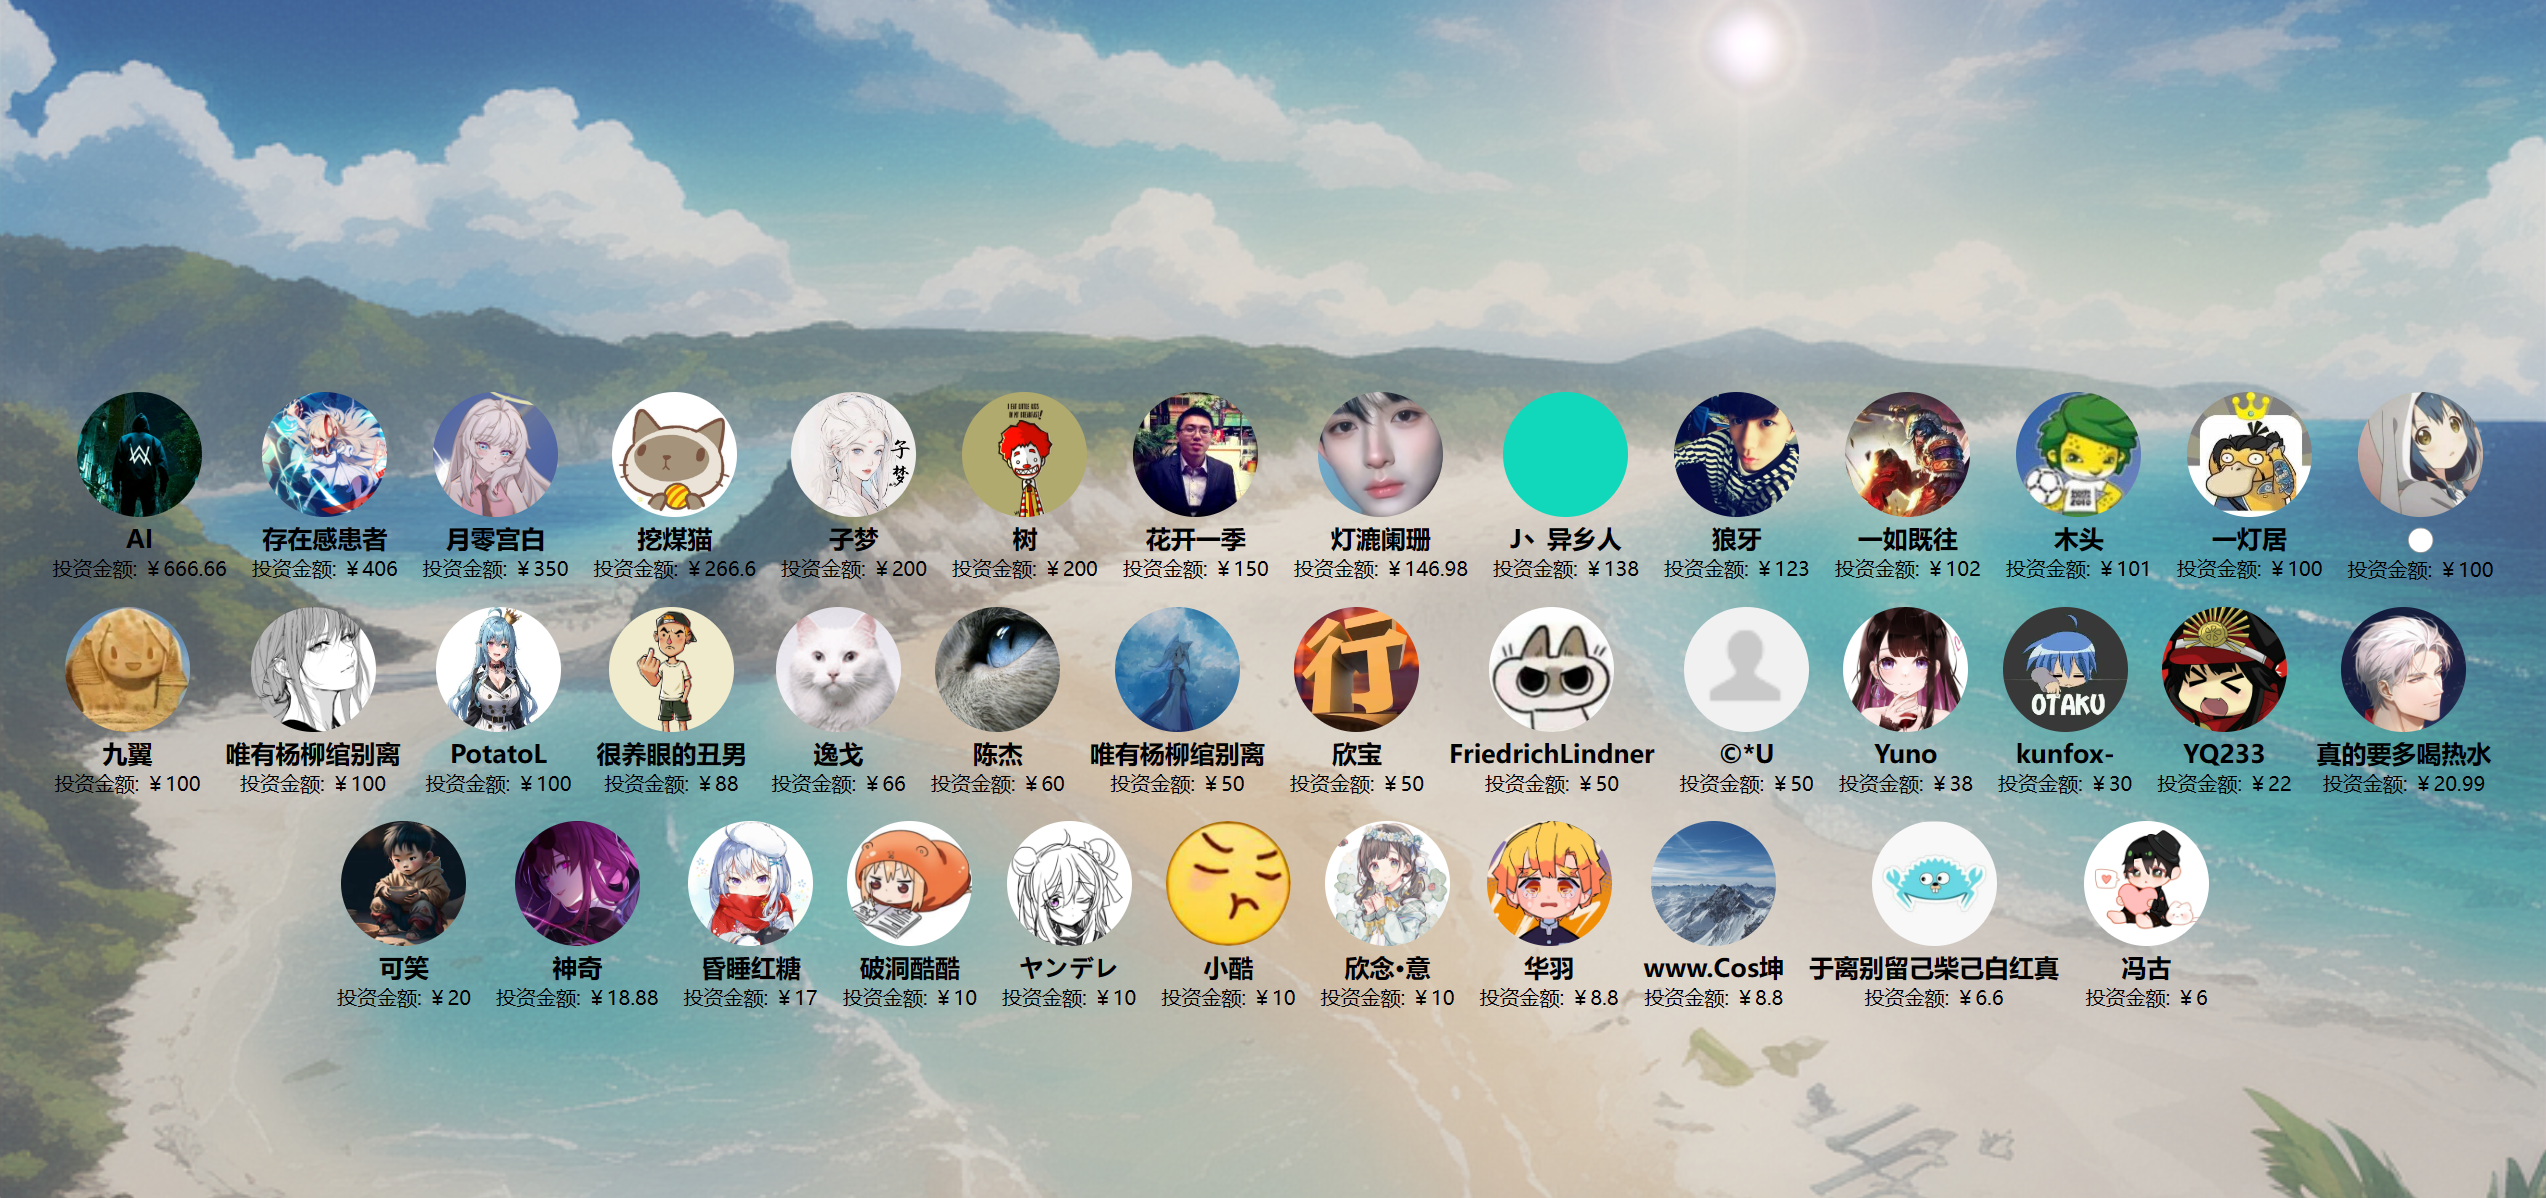
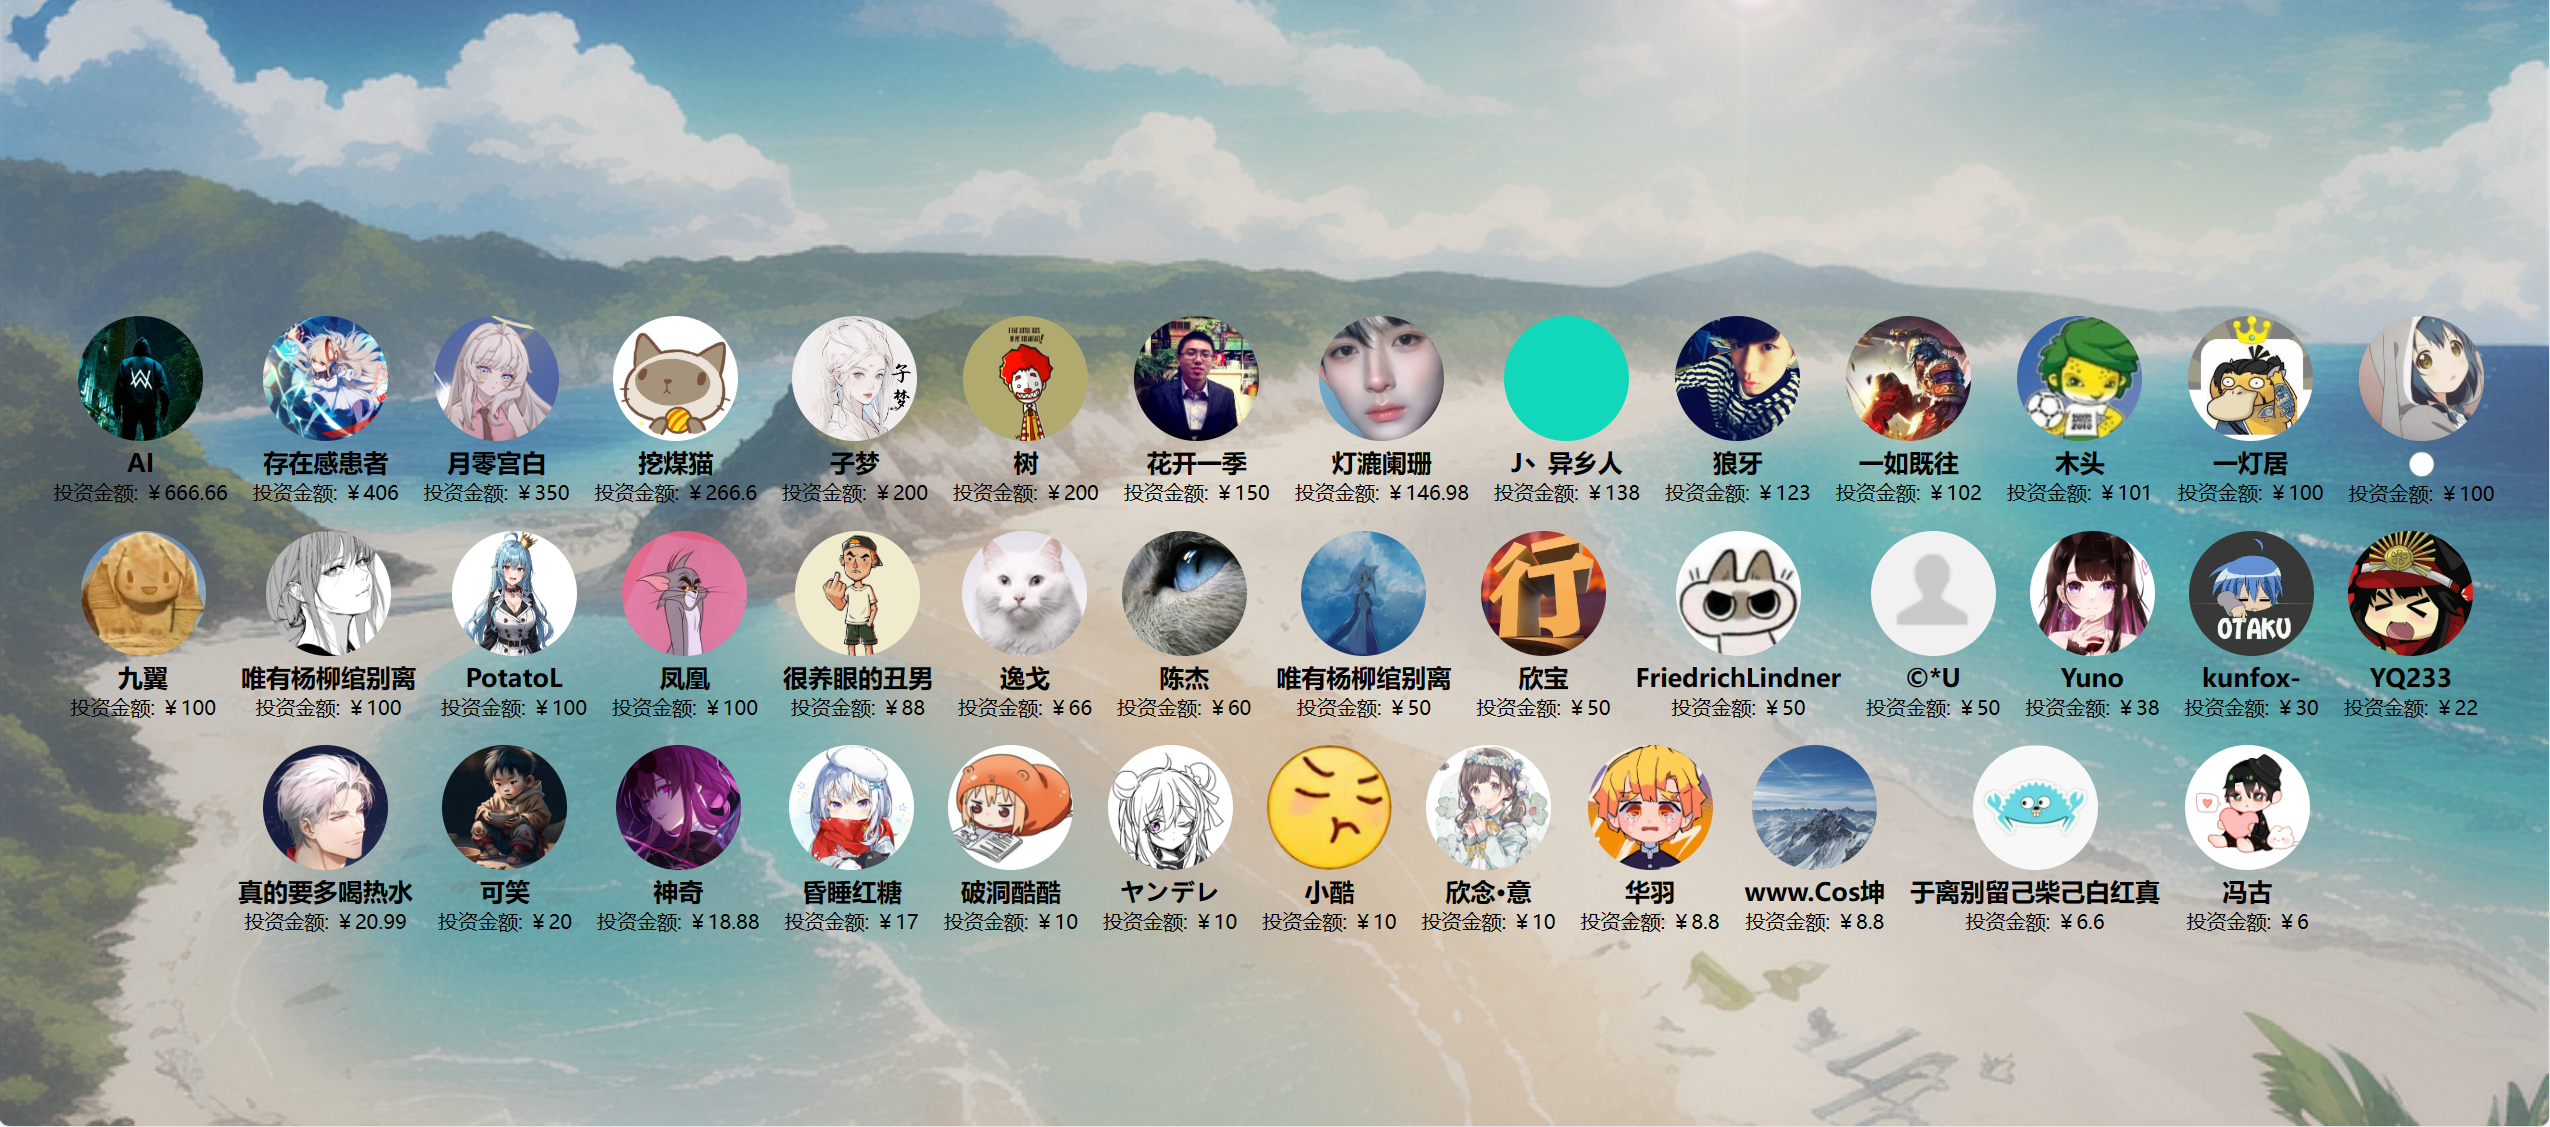
更新投资人

diff --git a/docs/投资人/index.html b/docs/投资人/index.html
@@ -137,6 +137,11 @@
             amount: "￥100"
         },
         {
+            name: "凤凰",
+            avatar: "https://images.cnblogs.com/cnblogs_com/ikaros-521/2328032/o_230925111651_QQ%E5%9B%BE%E7%89%8720230925190851.jpg",
+            amount: "￥100"
+        },
+        {
             name: "很养眼的丑男",
             avatar: "https://images.cnblogs.com/cnblogs_com/ikaros-521/2328032/o_230722162732_QQ%E5%9B%BE%E7%89%8720230723000544.jpg",
             amount: "￥88"
